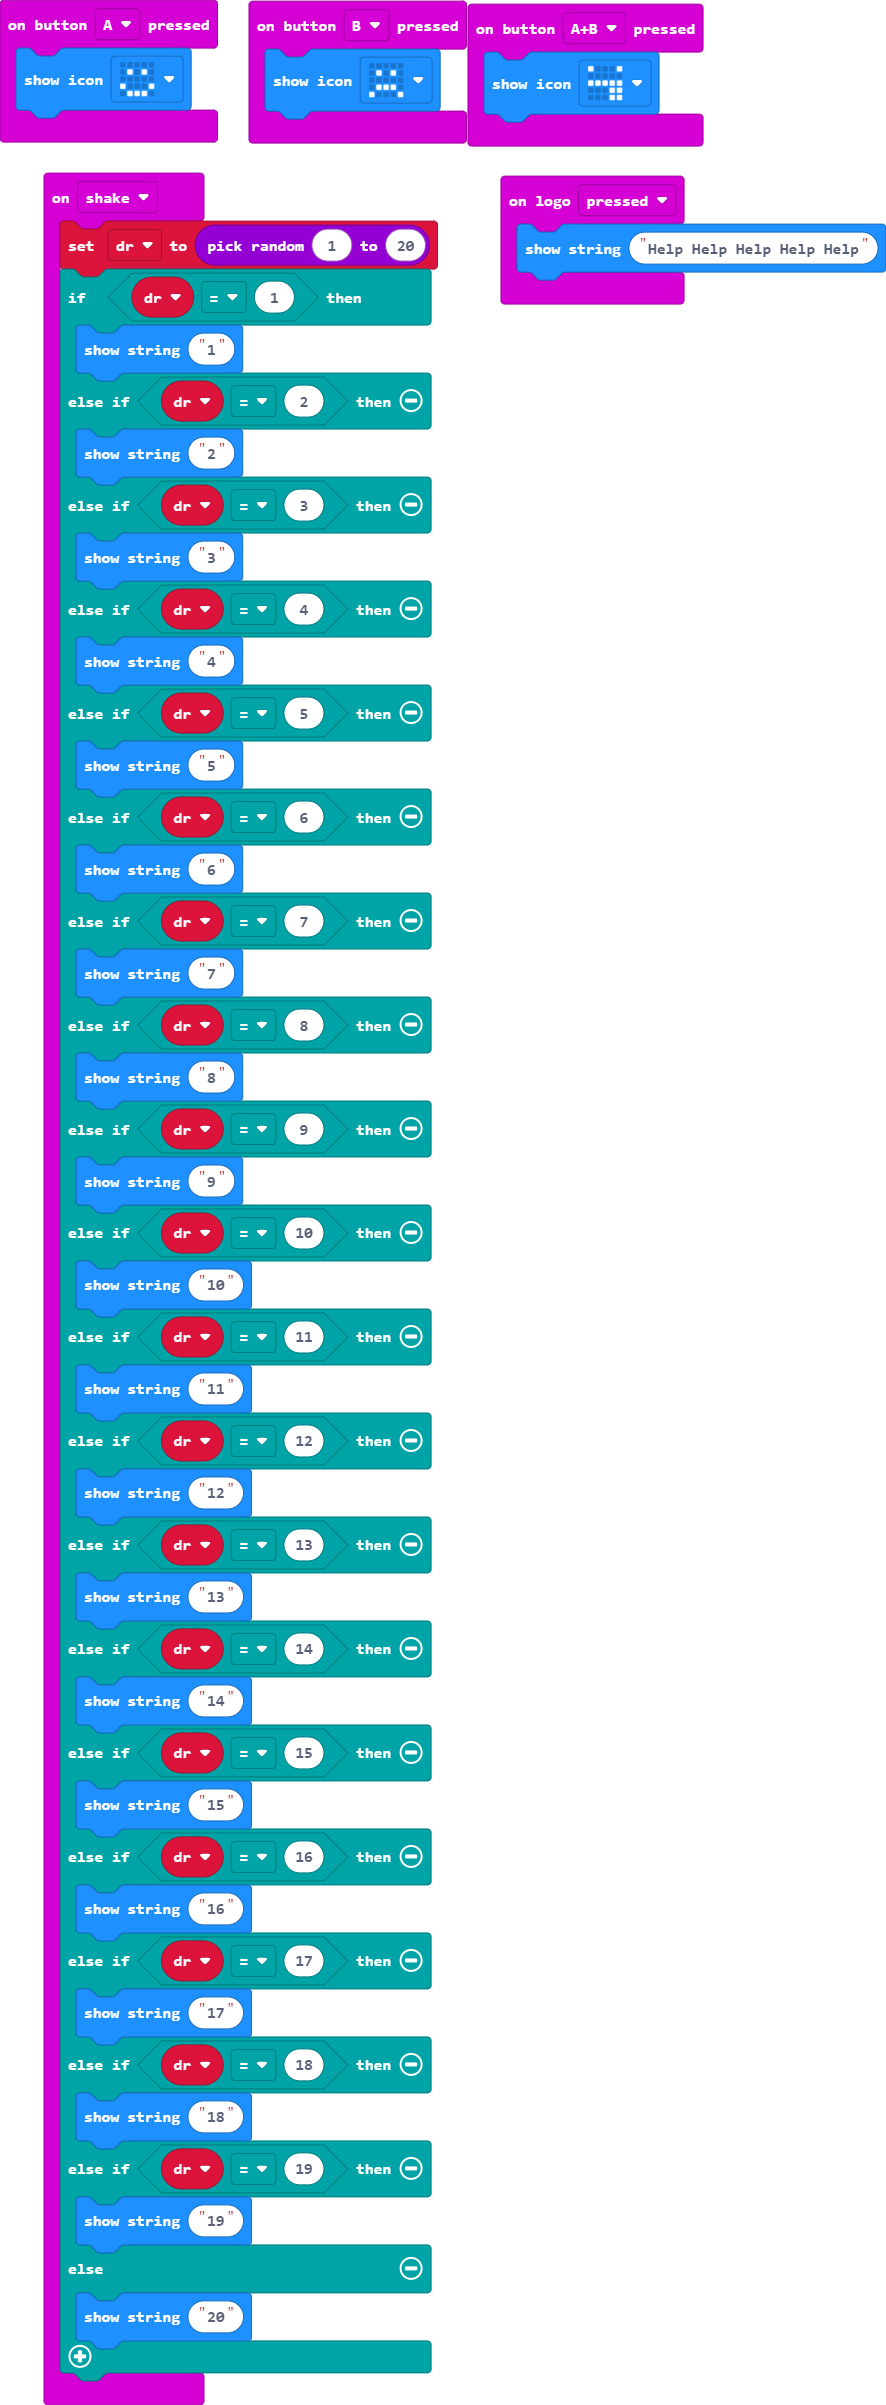
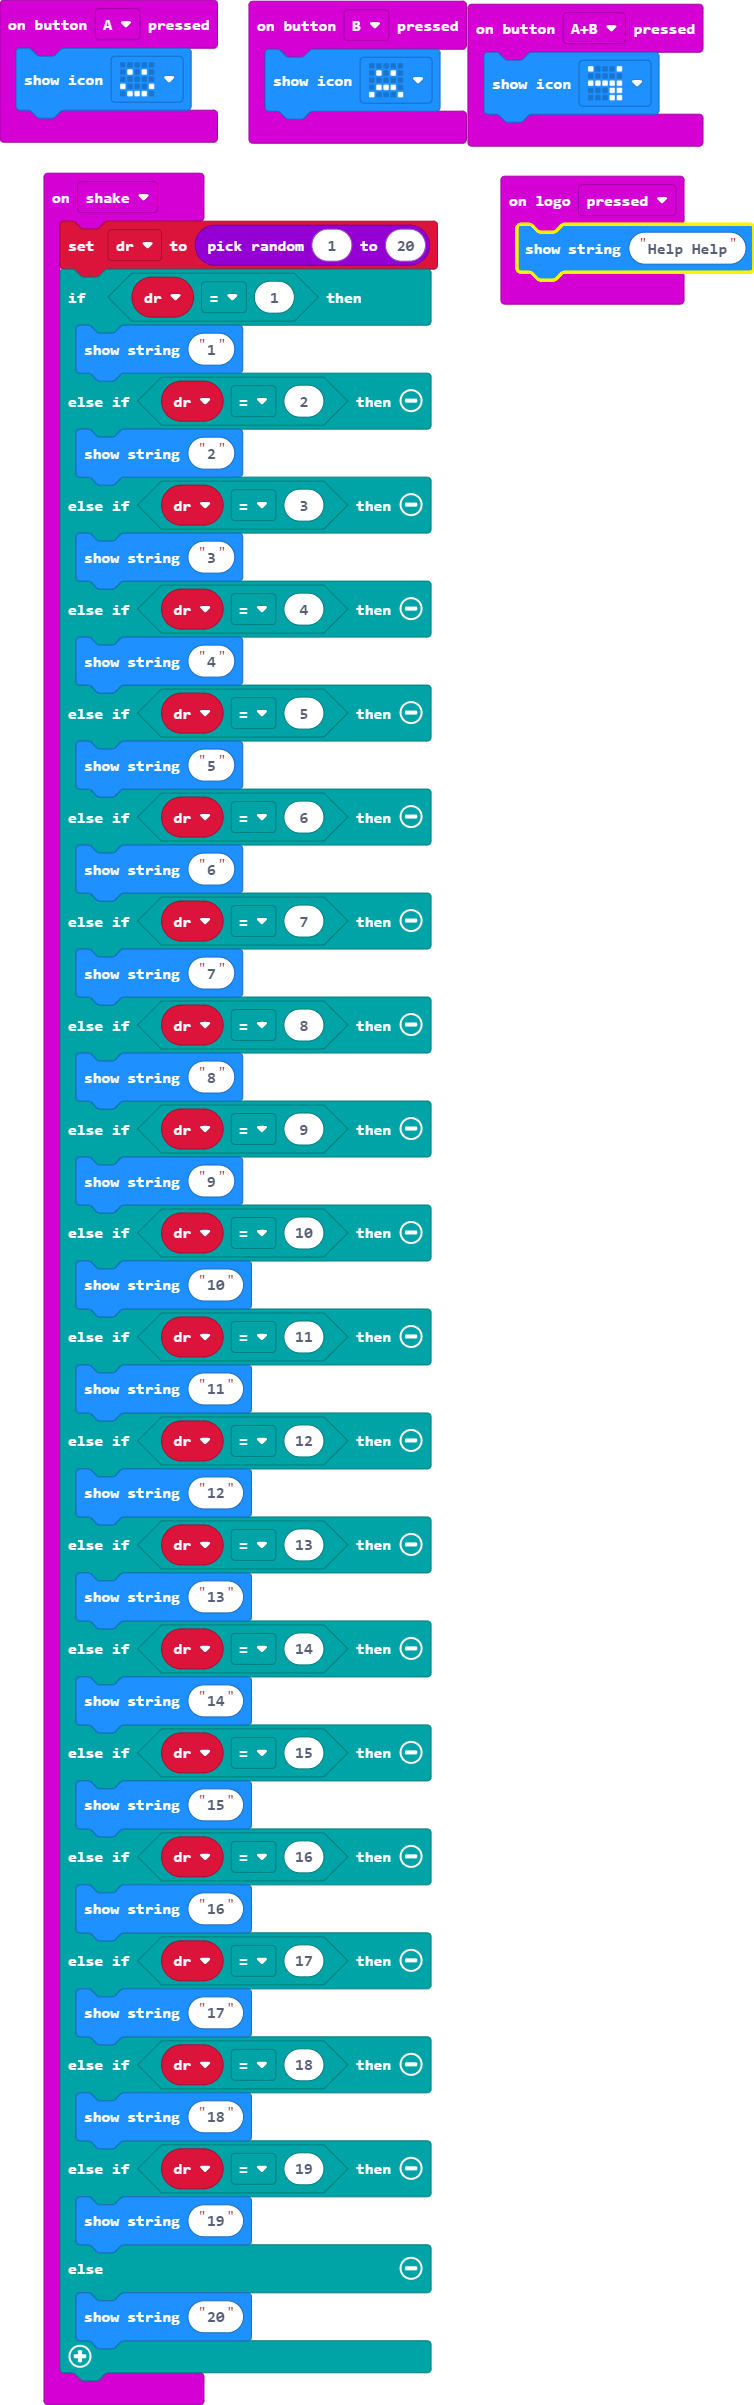
Update main.blocks, main.ts

Changed region(s): [[0.0, 0.0, 1.0, 1.0]]

diff --git a/main.ts b/main.ts
@@ -53,5 +53,5 @@ input.onGesture(Gesture.Shake, function () {
     }
 })
 input.onLogoEvent(TouchButtonEvent.Pressed, function () {
-    basic.showString("Help Help Help Help Help")
+    basic.showString("Help Help")
 })
